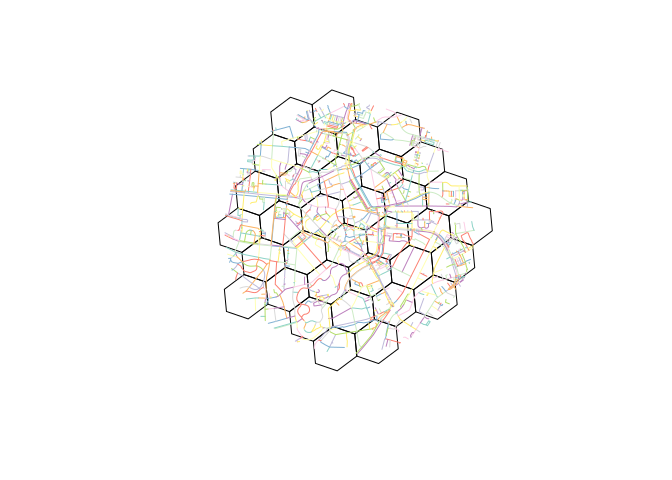
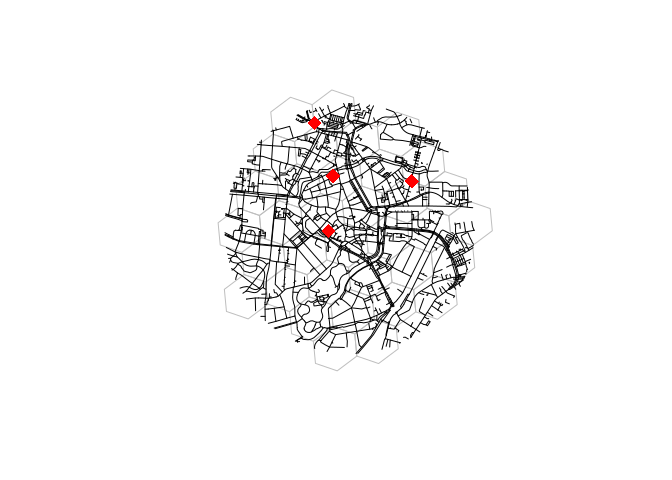
Document outputs in readme

Changed region(s): [[0.3125, 0.1875, 0.7188, 0.7812]]

diff --git a/README.md b/README.md
@@ -26,10 +26,41 @@ library(isonoi)
 library(sf)
 #> Linking to GEOS 3.11.1, GDAL 3.6.4, PROJ 9.1.1; sf_use_s2() is TRUE
 x = net_oldenburg_raw
-hex = iso_grid(x)
-plot(hex)
-plot(x, add = TRUE)
-#> Warning in plot.sf(x, add = TRUE): ignoring all but the first attribute
+points = points_oldenburg
+grid = iso_grid(x)
+plot(grid, border = "grey")
+plot(sf::st_geometry(x), add = TRUE)
+plot(points, col = "red", add = TRUE, pch = 18, cex = 2)
+#> Warning in plot.sf(points, col = "red", add = TRUE, pch = 18, cex = 2):
+#> ignoring all but the first attribute
 ```
 
 ![](README_files/figure-gfm/inputs-1.png)<!-- -->
+
+The 3 figures below show outputs from the packages next to the standard
+voronoi diagram.
+
+``` r
+library(tmap)
+#> The legacy packages maptools, rgdal, and rgeos, underpinning the sp package,
+#> which was just loaded, will retire in October 2023.
+#> Please refer to R-spatial evolution reports for details, especially
+#> https://r-spatial.org/r/2023/05/15/evolution4.html.
+#> It may be desirable to make the sf package available;
+#> package maintainers should consider adding sf to Suggests:.
+#> The sp package is now running under evolution status 2
+#>      (status 2 uses the sf package in place of rgdal)
+# m1 = iso_voronoi(x) # TODO
+vgrid = iso_vgrid(points, grid)
+#> lon-lat points
+#> Warning: st_centroid assumes attributes are constant over geometries
+# plot(vgrid[19, ])
+m2 = tm_shape(vgrid) + tm_fill("name")
+# m3 = iso_osrm(x) # TODO
+tmap_arrange(m2, m2, m2, nrow = 1)
+#> Some legend labels were too wide. These labels have been resized to 0.24, 0.62, 0.29. Increase legend.width (argument of tm_layout) to make the legend wider and therefore the labels larger.
+#> Some legend labels were too wide. These labels have been resized to 0.24, 0.62, 0.29. Increase legend.width (argument of tm_layout) to make the legend wider and therefore the labels larger.
+#> Some legend labels were too wide. These labels have been resized to 0.24, 0.62, 0.29. Increase legend.width (argument of tm_layout) to make the legend wider and therefore the labels larger.
+```
+
+![](README_files/figure-gfm/outputs-1.png)<!-- -->
